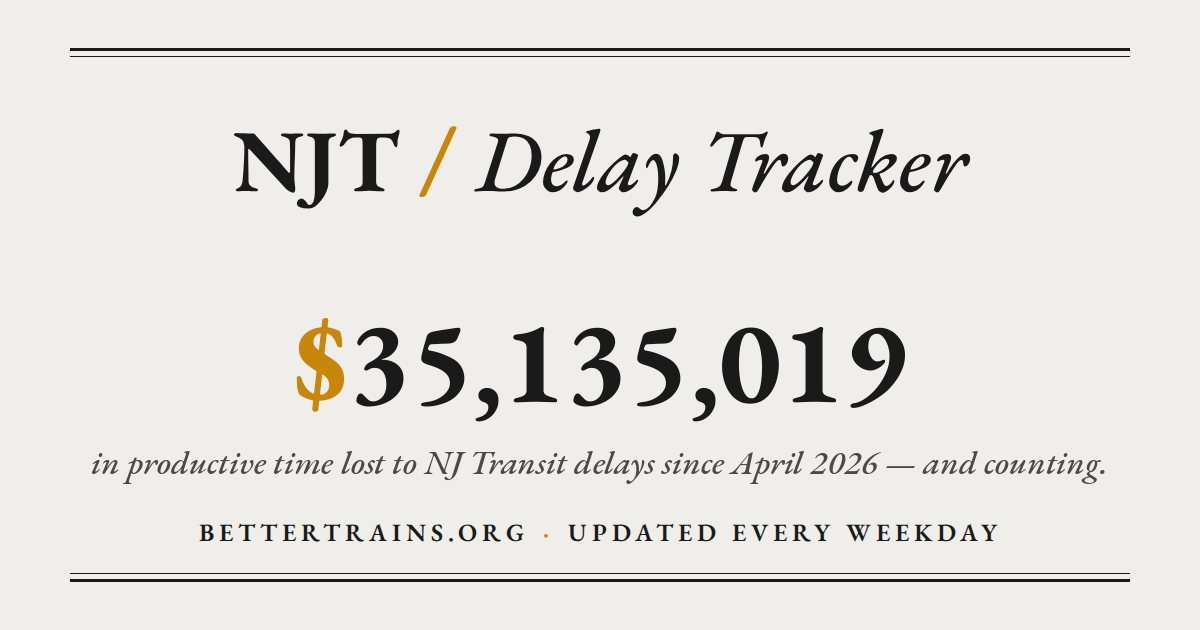
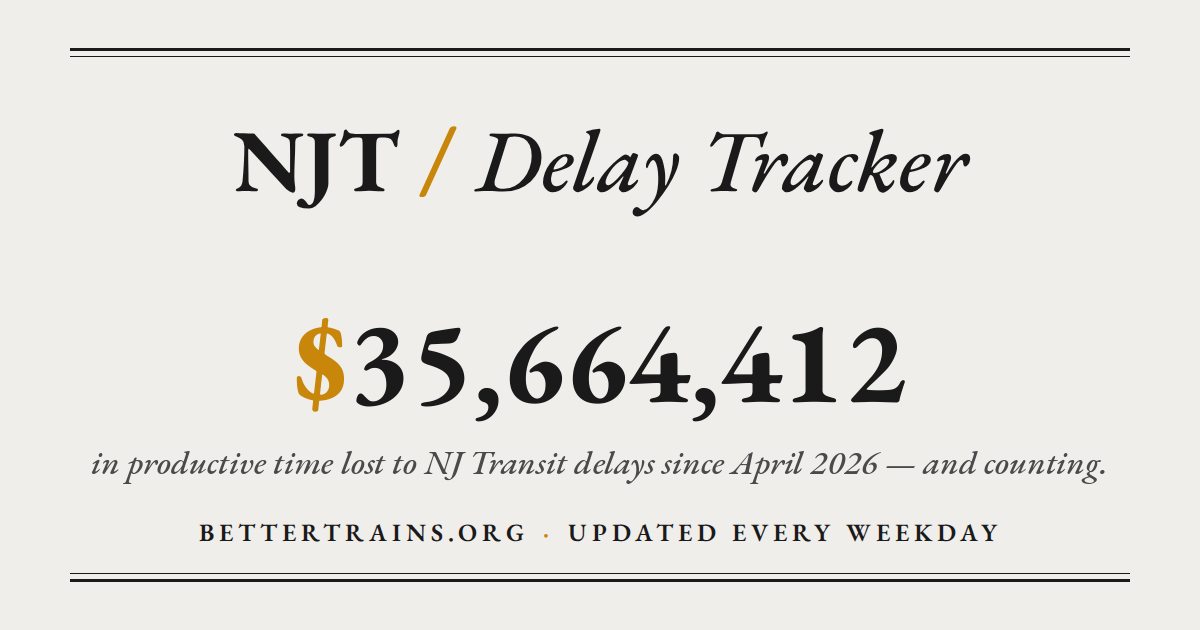
Update site stats and social card with latest figures

Changed region(s): [[0.4008, 0.5127, 0.6475, 0.6635], [0.7092, 0.5127, 0.7708, 0.6635]]

diff --git a/docs/index.html b/docs/index.html
@@ -518,12 +518,12 @@
       <!-- The WS: sentinel comments below are rewritten daily by src/web_stats.py
            with the latest figures, so non-JS crawlers see real numbers.
            Do not remove them. The script fetches fresher values live. -->
-      <p class="figure-label" id="figure-label-daily"><!--WS:DAILY_LABEL-->On Tuesday, July 21, New Jersey Transit delays cost commuters and New York City employers more than:<!--/WS:DAILY_LABEL--></p>
-      <p class="figure-primary" id="figure-daily"><!--WS:DAILY-->$501,967<!--/WS:DAILY--></p>
-      <p class="figure-caption">in productive time, based on <strong id="figure-person-hours"><!--WS:HOURS-->11,408<!--/WS:HOURS--></strong> total hours of delays.</p>
+      <p class="figure-label" id="figure-label-daily"><!--WS:DAILY_LABEL-->On Wednesday, July 22, New Jersey Transit delays cost commuters and New York City employers more than:<!--/WS:DAILY_LABEL--></p>
+      <p class="figure-primary" id="figure-daily"><!--WS:DAILY-->$529,393<!--/WS:DAILY--></p>
+      <p class="figure-caption">in productive time, based on <strong id="figure-person-hours"><!--WS:HOURS-->12,032<!--/WS:HOURS--></strong> total hours of delays.</p>
 
       <p class="figure-label">Since we started tracking in April 2026, New Jersey Transit delays have cost commuters and employers more than:</p>
-      <p class="figure-secondary" id="figure-cumulative"><!--WS:CUMULATIVE-->$35,135,019<!--/WS:CUMULATIVE--></p>
+      <p class="figure-secondary" id="figure-cumulative"><!--WS:CUMULATIVE-->$35,664,412<!--/WS:CUMULATIVE--></p>
       <p class="figure-caption-secondary">in productive time spent waiting for missed, canceled, or delayed trains.</p>
 
       <p class="body-text">

diff --git a/docs/graphs.html b/docs/graphs.html
@@ -486,16 +486,16 @@
          remove them. The script fetches fresher values live. -->
     <div class="stat-row" id="stat-row">
       <div class="stat-card">
-        <div class="stat-value" id="stat-daily"><!--WS:DAILY-->$501,967<!--/WS:DAILY--></div>
-        <div class="stat-label" id="stat-daily-label"><!--WS:DAILY_LABEL-->Tuesday’s delay cost<!--/WS:DAILY_LABEL--></div>
+        <div class="stat-value" id="stat-daily"><!--WS:DAILY-->$529,393<!--/WS:DAILY--></div>
+        <div class="stat-label" id="stat-daily-label"><!--WS:DAILY_LABEL-->Wednesday’s delay cost<!--/WS:DAILY_LABEL--></div>
       </div>
       <div class="stat-card">
-        <div class="stat-value" id="stat-cumulative"><!--WS:CUMULATIVE-->$35,135,019<!--/WS:CUMULATIVE--></div>
+        <div class="stat-value" id="stat-cumulative"><!--WS:CUMULATIVE-->$35,664,412<!--/WS:CUMULATIVE--></div>
         <div class="stat-label">Cumulative since April 2026</div>
       </div>
       <div class="stat-card">
-        <div class="stat-value" id="stat-hours"><!--WS:HOURS-->11,408<!--/WS:HOURS--></div>
-        <div class="stat-label" id="stat-hours-label"><!--WS:HOURS_LABEL-->Person-hours lost Tuesday<!--/WS:HOURS_LABEL--></div>
+        <div class="stat-value" id="stat-hours"><!--WS:HOURS-->12,032<!--/WS:HOURS--></div>
+        <div class="stat-label" id="stat-hours-label"><!--WS:HOURS_LABEL-->Person-hours lost Wednesday<!--/WS:HOURS_LABEL--></div>
       </div>
     </div>
 
